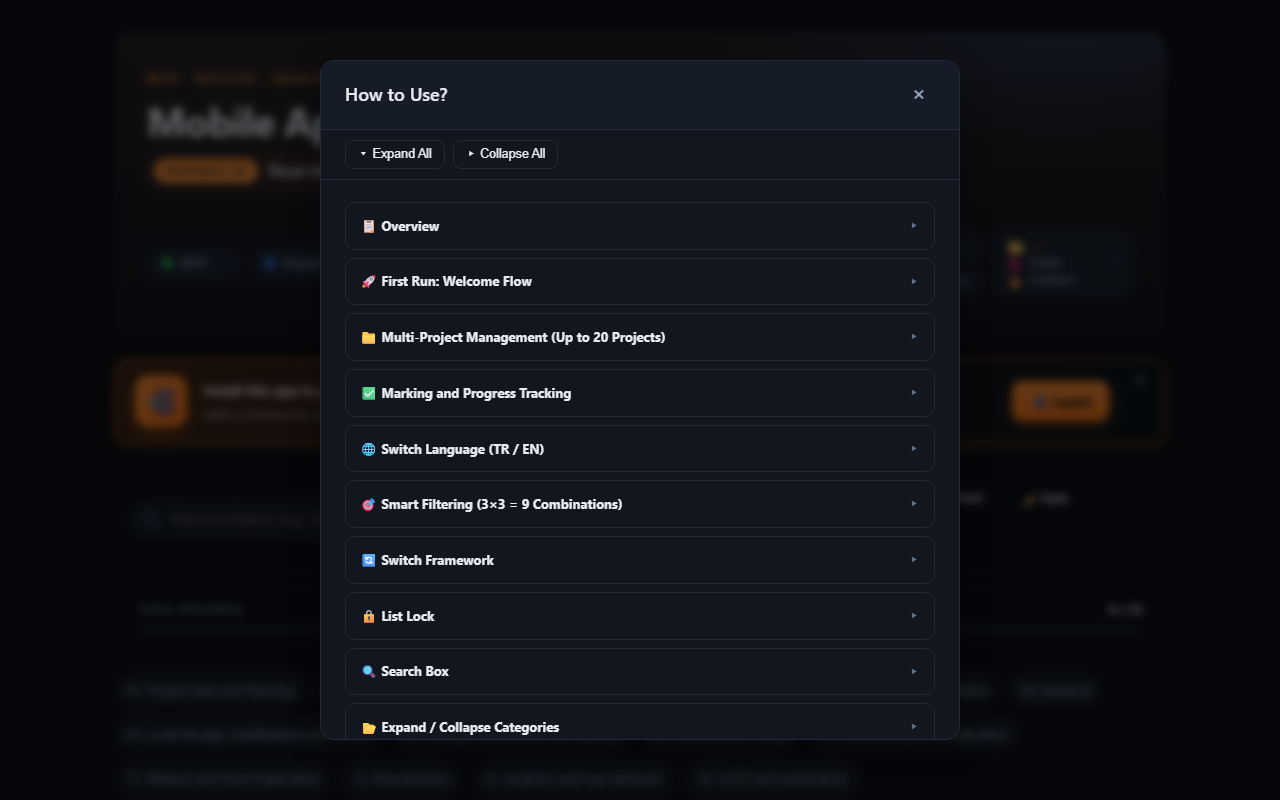
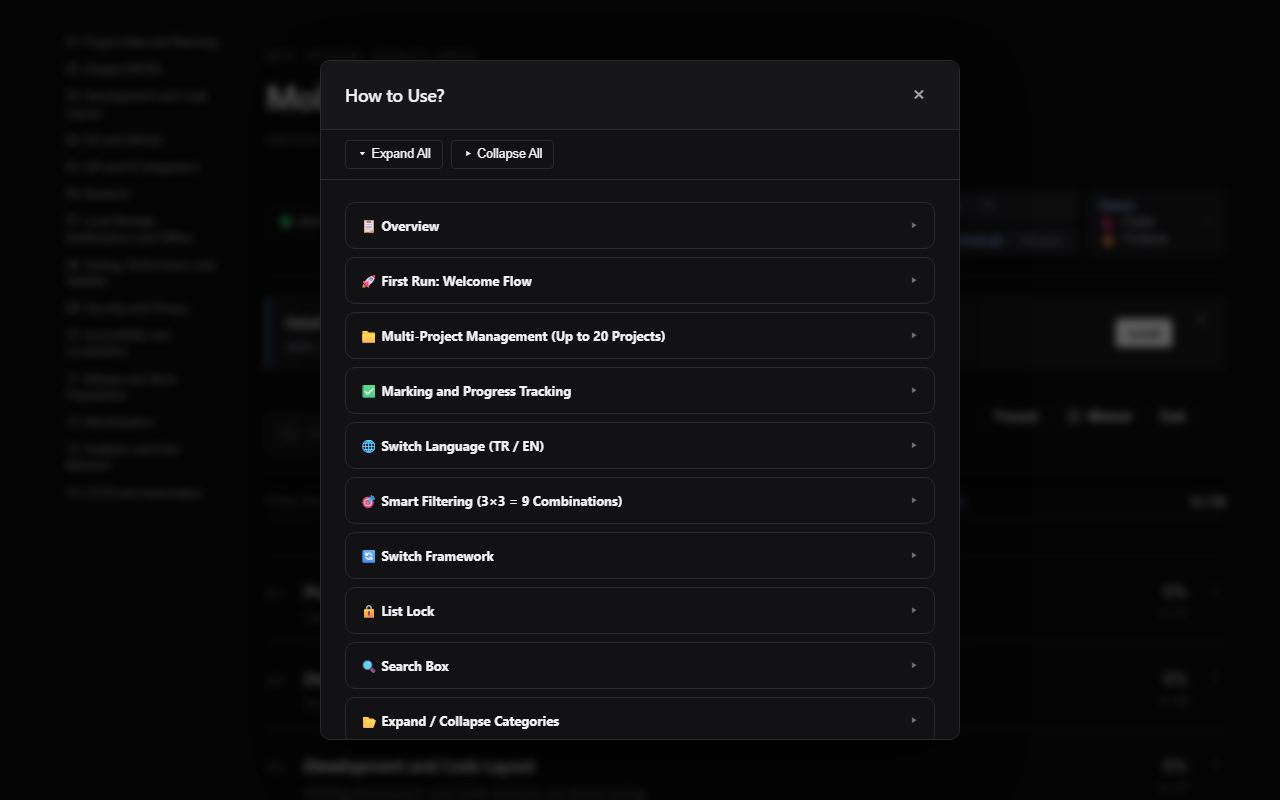
Refresh repository visuals and metadata for the theme axis (1.2.4)
The three designs landed in 1.2.3 but the repository still described and
pictured the single look they replaced. This brings the outward-facing
surface in line.

Screenshots:

- Regenerated all four existing shots in both languages. They were taken
  against the old look and no longer matched the application.
- Added a theme gallery: 05-theme-picker, 06-theme-classic and
  07-theme-showcase per language, wired into both READMEs under
  Screenshots. Shots 01 to 05 use the application's default theme; 06 and
  07 pin their own, so the gallery shows all three no matter what the
  default happens to be on the day it is regenerated.
- scripts/capture-screenshots.mjs gained a SHOT_DESIGN override next to
  BASE_URL and SHOT_LANG, and every seed now writes the design key
  explicitly rather than inheriting whatever the default is.

Two bugs the regeneration exposed, both in the capture script:

- The demo project was seeded as { active, list }. js/04-projects.js
  stores { version, activeId, projects }, so the store rejected the seed
  and every shot was taken with no active project: the hero pill rendered
  empty in all eight committed images.
- 03-card-flip had stopped showing a flipped card. Categories start
  collapsed, so the flip button existed in the DOM but inside a
  zero-height container; clicking it produced an image byte-identical to
  02-checklist. The shot now expands the first category before flipping.

Metadata and governance:
[…]

diff --git a/index.html b/index.html
@@ -46,8 +46,13 @@
 <meta name="twitter:image" content="https://ozcanorhandemirci.github.io/Mobil_App_Check_List/og-image.png" />
 <meta name="twitter:image:alt" content="Mobil Uygulama Kalite Kontrol Listesi önizleme görseli" />
 
-<meta name="theme-color" media="(prefers-color-scheme: dark)" content="#0b0f17" />
-<meta name="theme-color" media="(prefers-color-scheme: light)" content="#f6f7fb" />
+<!-- Browser chrome color. These match the DEFAULT design (Minimal), whose
+     grounds are #0a0a0b dark and #ffffff light; a reader who switches to
+     Classic or Showcase keeps these values, which is the documented
+     limitation of a static meta tag. Keep in sync with the token blocks in
+     css/07-design-minimal.css and with manifest.webmanifest. -->
+<meta name="theme-color" media="(prefers-color-scheme: dark)" content="#0a0a0b" />
+<meta name="theme-color" media="(prefers-color-scheme: light)" content="#ffffff" />
 <meta name="apple-mobile-web-app-capable" content="yes" />
 <meta name="apple-mobile-web-app-status-bar-style" content="black-translucent" />
 <meta name="apple-mobile-web-app-title" content="Kontrol Listesi" />
@@ -270,7 +275,7 @@
         <line x1="12" y1="15" x2="12" y2="3"/>
       </svg>
     </button>
-    <p class="foot-version" id="footVersion"><span>v1.2.3</span><span class="version-dot">·</span><span data-i18n="footer.date">Eylül 2026</span></p>
+    <p class="foot-version" id="footVersion"><span>v1.2.4</span><span class="version-dot">·</span><span data-i18n="footer.date">Eylül 2026</span></p>
   </footer>
 </div>
 

diff --git a/sw.js b/sw.js
@@ -4,7 +4,7 @@
    refetch the new assets on next visit. Manual edits to this line are
    overwritten by `npm run sw:sync` and rejected by CI / pre-commit if
    they go out of sync with package.json. */
-const CACHE_NAME = 'mobil-kontrol-v1.2.3';
+const CACHE_NAME = 'mobil-kontrol-v1.2.4';
 
 self.addEventListener('install', () => {
   self.skipWaiting();

diff --git a/CHANGELOG.md b/CHANGELOG.md
@@ -7,6 +7,53 @@ and this project adheres to [Semantic Versioning](https://semver.org/spec/v2.0.0
 
 ## [Unreleased]
 
+## [1.2.4] - 2026-09-12
+
+Follow-up to the design axis: the repository's own visuals, metadata and
+governance files now describe the three themes instead of the single look
+they replaced.
+
+### Added
+
+- `assets/screenshots/{tr,en}/05-theme-picker.png`,
+  `06-theme-classic.png`, `07-theme-showcase.png`: a theme gallery for
+  both READMEs, in both languages. Shots 01 to 05 use the application's
+  default theme; 06 and 07 pin their own, so the gallery always shows all
+  three regardless of what the default is on the day it is regenerated.
+- `SHOT_DESIGN` environment override in `scripts/capture-screenshots.mjs`,
+  alongside the existing `BASE_URL` and `SHOT_LANG`. Every seed now writes
+  the design key explicitly, so a shot never silently changes meaning when
+  the default design changes.
+
+### Changed
+
+- README screenshots regenerated. The four existing shots were taken
+  against the old single look and no longer matched the application.
+- `README.md`, `README.tr.md`: a "The three themes" gallery under
+  Screenshots, and the capture note explains which shots pin a theme.
+- PWA chrome colors follow the default design: `theme-color` in
+  `index.html` and `theme_color` / `background_color` in
+  `manifest.webmanifest` move from the Classic grounds (`#0b0f17`,
+  `#f6f7fb`) to the Minimal ones (`#0a0a0b`, `#ffffff`).
+- `.github/CODEOWNERS` covers the five design files. One DOM carries three
+  designs, so a change there can break a design nobody opened in review.
+- `.github/ISSUE_TEMPLATE/bug_report.yml`: required Theme and Color mode
+  dropdowns, because a visual bug is now usually specific to one of the
+  six combinations. The OS options and the browser-version placeholder
+  had drifted about two years behind and were refreshed.
+
+### Fixed
+
+- `scripts/capture-screenshots.mjs` seeded its demo project as
+  `{ active, list }`, which is not the shape `js/04-projects.js` stores
+  (`{ version, activeId, projects }`). The store rejected it, so every
+  screenshot was taken with no active project and the hero pill rendered
+  empty.
+- The `03-card-flip` shot had stopped showing a flipped card: categories
+  start collapsed, so the flip button existed in the DOM but inside a
+  zero-height container, and clicking it produced an image identical to
+  `02-checklist`. The shot now expands the first category before flipping.
+
 ## [1.2.3] - 2026-09-12
 
 Three design themes, switchable at runtime. Feedback on the public demo
@@ -665,7 +712,8 @@ and per-item how-to guidance.
 - Service Worker scope limited to same-origin GET requests; non-GET and
   cross-origin requests bypass the cache entirely.
 
-[Unreleased]: https://github.com/OzcanOrhanDemirci/Mobil_App_Check_List/compare/v1.2.3...HEAD
+[Unreleased]: https://github.com/OzcanOrhanDemirci/Mobil_App_Check_List/compare/v1.2.4...HEAD
+[1.2.4]: https://github.com/OzcanOrhanDemirci/Mobil_App_Check_List/compare/v1.2.3...v1.2.4
 [1.2.3]: https://github.com/OzcanOrhanDemirci/Mobil_App_Check_List/compare/v1.2.2...v1.2.3
 [1.2.2]: https://github.com/OzcanOrhanDemirci/Mobil_App_Check_List/compare/v1.2.1...v1.2.2
 [1.2.1]: https://github.com/OzcanOrhanDemirci/Mobil_App_Check_List/compare/v1.2.0...v1.2.1

diff --git a/README.tr.md b/README.tr.md
@@ -151,7 +151,7 @@ Bu uygulama o boşluğu doldurur:
   <em>Sosyal önizleme görseli (Open Graph, 1200x630).</em>
 </p>
 
-> Görseller `scripts/capture-screenshots.mjs` script'i ile Playwright üzerinden üretilir. Mevcut PNG'ler `assets/screenshots/` altında commit'lenmiştir; arayüz değişince script'i yeniden çalıştırarak güncelleyebilirsiniz (kullanım aşağıda).
+> Görseller `scripts/capture-screenshots.mjs` script'i ile Playwright üzerinden üretilir. Mevcut PNG'ler `assets/screenshots/` altında commit'lenmiştir; arayüz değişince script'i yeniden çalıştırarak güncelleyebilirsiniz (kullanım aşağıda). 1-5 arası görüntüler varsayılan temayı kullanır; 6 ve 7 kendi temasını sabitler, böylece galeri her zaman üçünü de gösterir.
 
 <table>
   <tr>
@@ -187,6 +187,44 @@ Bu uygulama o boşluğu doldurur:
     </td>
   </tr>
 </table>
+
+### Üç tema
+
+Tek DOM, tek veri kümesi, tek özellik kümesi. Tema yerleşimi, tipografiyi ve hareketi değiştirir; içerik ve onunla yapabildiklerin aynı kalır. Ayrıntı: [Tasarım temaları](#tasarım-temaları).
+
+<table>
+  <tr>
+    <td align="center" width="33%">
+      <a href="assets/screenshots/tr/02-checklist.png">
+        <img src="assets/screenshots/tr/02-checklist.png" alt="Sade tema: nötr palet, ince çizgiler, kategori kenar çubuğu" width="100%" />
+      </a>
+      <br />
+      <sub><strong>Sade (varsayılan)</strong>: nötr palet, ince ayırıcı çizgiler, geniş ekranda kategori kenar çubuğu.</sub>
+    </td>
+    <td align="center" width="33%">
+      <a href="assets/screenshots/tr/06-theme-classic.png">
+        <img src="assets/screenshots/tr/06-theme-classic.png" alt="Klasik tema: renkli başlık, yuvarlak hatlar, kart yüzeyleri" width="100%" />
+      </a>
+      <br />
+      <sub><strong>Klasik</strong>: projenin ilk sürümünden beri gelen görünüm, süreklilik için korundu.</sub>
+    </td>
+    <td align="center" width="33%">
+      <a href="assets/screenshots/tr/07-theme-showcase.png">
+        <img src="assets/screenshots/tr/07-theme-showcase.png" alt="Vitrin teması: büyük tipografi ve üç ilerleme halkası" width="100%" />
+      </a>
+      <br />
+      <sub><strong>Vitrin</strong>: büyük tipografi, ilerleme halkaları, kaydırdıkça beliren bölümler.</sub>
+    </td>
+  </tr>
+  <tr>
+    <td align="center" colspan="3">
+      <a href="assets/screenshots/tr/05-theme-picker.png">
+        <img src="assets/screenshots/tr/05-theme-picker.png" alt="Üç CSS önizlemesiyle tema seçici penceresi" width="70%" />
+      </a>
+      <br />
+      <sub><strong>Seçici</strong> (toolbar butonu ya da <kbd>T</kbd> tuşu): seçim anında uygulanır, üçü arkadaki gerçek sayfa üzerinde karşılaştırılabilir.</sub>
+    </td>
+  </tr>
 
 ### Ekran görüntülerini yeniden üretmek (opsiyonel)
 

diff --git a/README.md b/README.md
@@ -151,7 +151,7 @@ This app fills that gap:
   <em>Social preview image (Open Graph, 1200x630). A Turkish version lives at <code>og-image.png</code>.</em>
 </p>
 
-> The screenshots below are generated by `scripts/capture-screenshots.mjs`, which drives Playwright against a local server. The PNGs under `assets/screenshots/` are committed; re-run the script after any UI change to refresh them (usage below).
+> The screenshots below are generated by `scripts/capture-screenshots.mjs`, which drives Playwright against a local server. The PNGs under `assets/screenshots/` are committed; re-run the script after any UI change to refresh them (usage below). Shots 1 to 5 use the default theme; 6 and 7 pin their own, so the gallery always shows all three.
 
 <table>
   <tr>
@@ -187,6 +187,44 @@ This app fills that gap:
     </td>
   </tr>
 </table>
+
+### The three themes
+
+One DOM, one data set, one feature set. The theme changes layout, typography and motion; the content and everything you can do with it stay the same. Details in [Design themes](#design-themes).
+
+<table>
+  <tr>
+    <td align="center" width="33%">
+      <a href="assets/screenshots/en/02-checklist.png">
+        <img src="assets/screenshots/en/02-checklist.png" alt="Minimal theme: neutral palette, hairline rules, category sidebar" width="100%" />
+      </a>
+      <br />
+      <sub><strong>Minimal (default)</strong>: neutral palette, hairline rules, a category sidebar on wide screens.</sub>
+    </td>
+    <td align="center" width="33%">
+      <a href="assets/screenshots/en/06-theme-classic.png">
+        <img src="assets/screenshots/en/06-theme-classic.png" alt="Classic theme: colored headline, rounded chrome, card surfaces" width="100%" />
+      </a>
+      <br />
+      <sub><strong>Classic</strong>: the look the project shipped with, kept for continuity.</sub>
+    </td>
+    <td align="center" width="33%">
+      <a href="assets/screenshots/en/07-theme-showcase.png">
+        <img src="assets/screenshots/en/07-theme-showcase.png" alt="Showcase theme: display typography and three progress rings" width="100%" />
+      </a>
+      <br />
+      <sub><strong>Showcase</strong>: display typography, progress rings, reveal on scroll.</sub>
+    </td>
+  </tr>
+  <tr>
+    <td align="center" colspan="3">
+      <a href="assets/screenshots/en/05-theme-picker.png">
+        <img src="assets/screenshots/en/05-theme-picker.png" alt="Theme picker dialog with three CSS-drawn previews" width="70%" />
+      </a>
+      <br />
+      <sub><strong>The picker</strong> (toolbar button or the <kbd>T</kbd> key): a pick applies instantly, so the three can be compared against the real page behind the dialog.</sub>
+    </td>
+  </tr>
 
 ### Reproducing the screenshots (optional)
 
